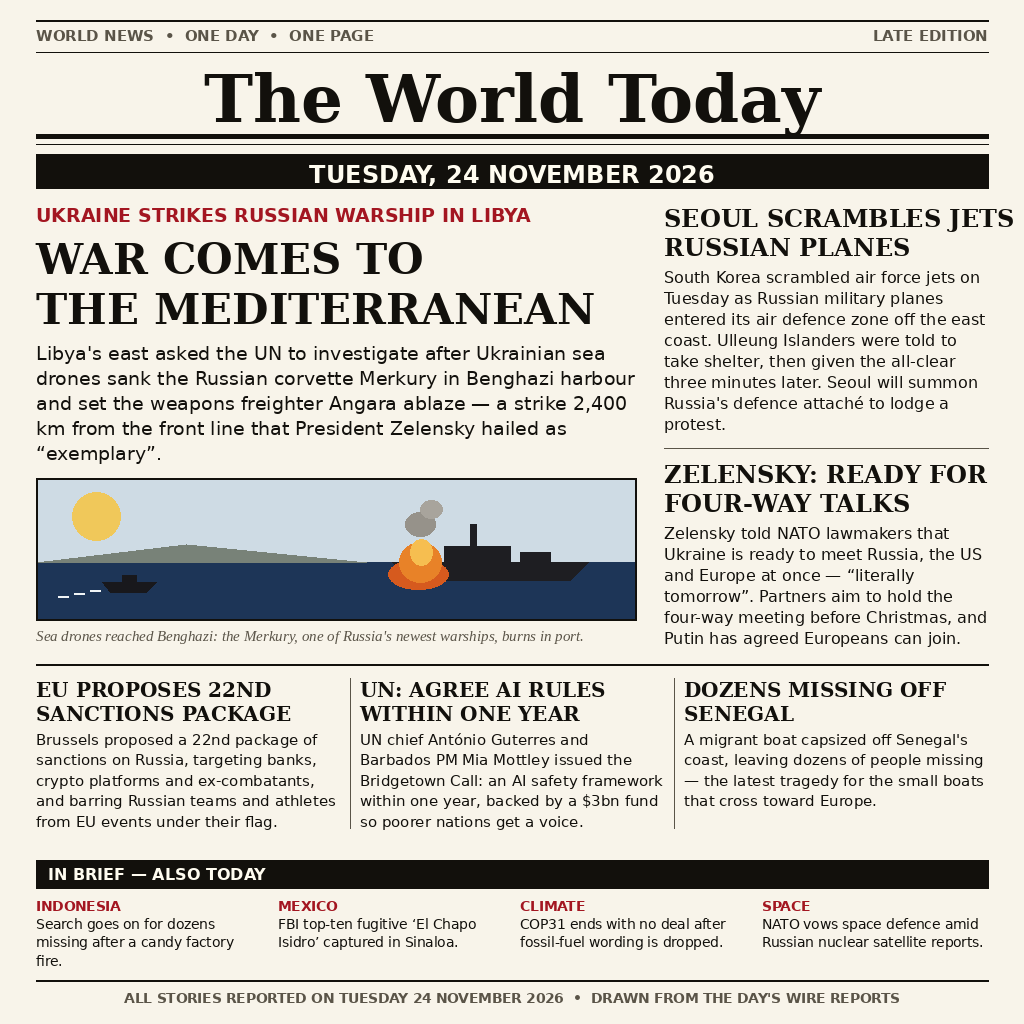
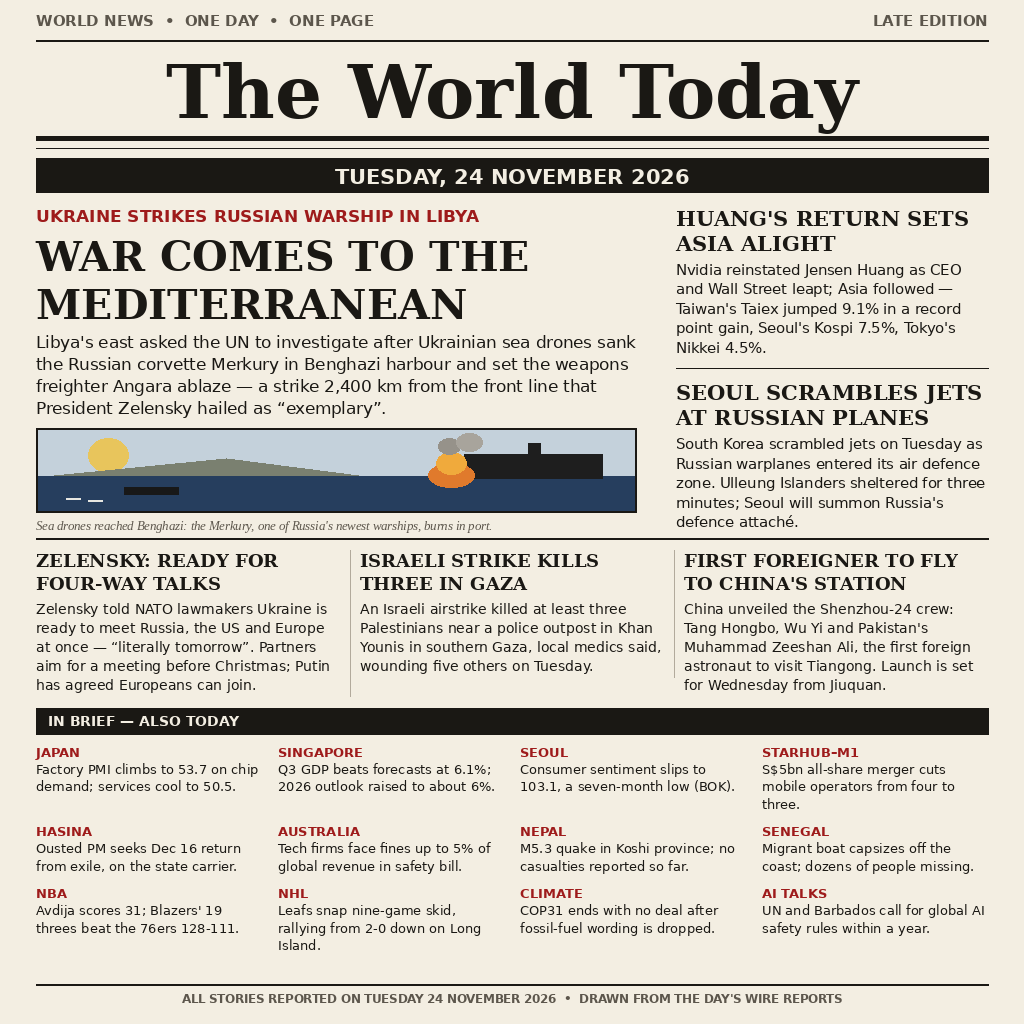
Rebuild as 18-story broadsheet: add Asia markets rally, Gaza strike, Shenzhou-24 crew, sports and Asia-Pacific briefs from wire-verified pool

diff --git a/build_poster.py b/build_poster.py
@@ -1,188 +1,185 @@
 #!/usr/bin/env python3
-"""Build the front-page poster for make.fun bounty news-image-20261124.
-Sums up the world news of Tuesday 24 November 2026 in one 1024x1024 image.
-Deterministic: pure PIL drawing, no randomness, no network.
-"""
+"""Builds entry.png — 'The World Today', a one-page broadsheet summing up
+Tuesday 24 November 2026. Pure PIL, fully deterministic, no network."""
 from PIL import Image, ImageDraw, ImageFont
 
 W = H = 1024
-PAPER = (248, 244, 234)
-INK = (18, 16, 12)
-RED = (163, 22, 33)
-NAVY = (29, 53, 87)
-GREY = (90, 84, 72)
-
+BG = (243, 238, 226)
+INK = (26, 24, 20)
+RED = (158, 27, 27)
+GREY = (92, 86, 76)
+SERIF = "/usr/share/fonts/truetype/dejavu/DejaVuSerif.ttf"
 SERIF_B = "/usr/share/fonts/truetype/dejavu/DejaVuSerif-Bold.ttf"
+SERIF_I = "/usr/share/fonts/truetype/liberation/LiberationSerif-Italic.ttf"
 SANS = "/usr/share/fonts/truetype/dejavu/DejaVuSans.ttf"
 SANS_B = "/usr/share/fonts/truetype/dejavu/DejaVuSans-Bold.ttf"
-SERIF_I = "/usr/share/fonts/truetype/liberation/LiberationSerif-Italic.ttf"
 
 
 def F(path, size):
     return ImageFont.truetype(path, size)
 
 
-def wrap(draw, text, font, maxw):
+def wrap(d, text, font, width):
     words, lines, cur = text.split(), [], ""
     for w in words:
         t = (cur + " " + w).strip()
-        if draw.textlength(t, font=font) <= maxw:
+        if d.textlength(t, font=font) <= width:
             cur = t
         else:
-            if cur:
-                lines.append(cur)
+            lines.append(cur)
             cur = w
     if cur:
         lines.append(cur)
     return lines
 
 
-def block(draw, x, y, text, font, maxw, leading, fill=INK):
-    for ln in wrap(draw, text, font, maxw):
-        draw.text((x, y), ln, font=font, fill=fill)
+def block(d, x, y, text, font, width, leading):
+    for ln in wrap(d, text, font, width):
+        d.text((x, y), ln, font=font, fill=INK)
         y += leading
     return y
 
 
-img = Image.new("RGB", (W, H), PAPER)
+img = Image.new("RGB", (W, H), BG)
 d = ImageDraw.Draw(img)
 MX = 36            # side margin
-RIGHT = W - MX     # 988
-
-# ---------- top strip ----------
-d.line([(MX, 20), (RIGHT, 20)], fill=INK, width=2)
-d.text((MX, 27), "WORLD NEWS  •  ONE DAY  •  ONE PAGE", font=F(SANS_B, 15), fill=GREY)
-t = "LATE EDITION"
-d.text((RIGHT - d.textlength(t, font=F(SANS_B, 15)), 27), t, font=F(SANS_B, 15), fill=GREY)
-d.line([(MX, 52), (RIGHT, 52)], fill=INK, width=1)
+CW = W - 2 * MX    # 952
 
 # ---------- masthead ----------
-mast = F(SERIF_B, 66)
+d.text((MX, 12), "WORLD NEWS  \u2022  ONE DAY  \u2022  ONE PAGE", font=F(SANS_B, 15), fill=GREY)
+r = "LATE EDITION"
+d.text((W - MX - d.textlength(r, font=F(SANS_B, 15)), 12), r, font=F(SANS_B, 15), fill=GREY)
+d.line([(MX, 40), (W - MX, 40)], fill=INK, width=2)
 t = "The World Today"
-d.text(((W - d.textlength(t, font=mast)) / 2, 60), t, font=mast, fill=INK)
-d.line([(MX, 136), (RIGHT, 136)], fill=INK, width=5)
-d.line([(MX, 144), (RIGHT, 144)], fill=INK, width=1)
-
-# ---------- date band ----------
-d.rectangle([MX, 154, RIGHT, 188], fill=INK)
+d.text(((W - d.textlength(t, font=F(SERIF_B, 74))) / 2, 48), t, font=F(SERIF_B, 74), fill=INK)
+d.line([(MX, 138), (W - MX, 138)], fill=INK, width=5)
+d.line([(MX, 148), (W - MX, 148)], fill=INK, width=1)
+d.rectangle([MX, 158, W - MX, 192], fill=INK)
 t = "TUESDAY, 24 NOVEMBER 2026"
-df = F(SANS_B, 24)
-d.text(((W - d.textlength(t, font=df)) / 2, 160), t, font=df, fill=(255, 252, 240))
+d.text(((W - d.textlength(t, font=F(SANS_B, 21))) / 2, 164), t, font=F(SANS_B, 21), fill=BG)
 
-# ---------- LEAD (left) ----------
-LX, LW = MX, 600
-y = 204
-d.text((LX, y), "UKRAINE STRIKES RUSSIAN WARSHIP IN LIBYA", font=F(SANS_B, 19), fill=RED)
-y += 30
-for ln in ["WAR COMES TO", "THE MEDITERRANEAN"]:
-    d.text((LX, y), ln, font=F(SERIF_B, 42), fill=INK)
-    y += 50
-y += 8
-y = block(d, LX, y,
-          "Libya's east asked the UN to investigate after Ukrainian sea drones sank "
-          "the Russian corvette Merkury in Benghazi harbour and set the weapons "
-          "freighter Angara ablaze — a strike 2,400 km from the front line that "
-          "President Zelensky hailed as \u201cexemplary\u201d.",
-          F(SANS, 19), LW, 25)
+# ---------- lead + rail zone ----------
+LY = 206
+LW = 600           # lead width
+RX = 676           # rail x
+RW = W - MX - RX   # 312
+
+d.text((MX, LY), "UKRAINE STRIKES RUSSIAN WARSHIP IN LIBYA", font=F(SANS_B, 17), fill=RED)
+y = LY + 26
+y = block(d, MX, y, "WAR COMES TO THE MEDITERRANEAN", F(SERIF_B, 41), LW, 48)
+y += 4
+y = block(d, MX, y,
+          "Libya's east asked the UN to investigate after Ukrainian sea drones sank the "
+          "Russian corvette Merkury in Benghazi harbour and set the weapons freighter "
+          "Angara ablaze — a strike 2,400 km from the front line that President Zelensky "
+          "hailed as \u201cexemplary\u201d.",
+          F(SANS, 16.5), LW, 22)
 print("lead deck ends", y)
-
-# ---------- illustration ----------
-IX, IY, IW, IH = LX, 478, LW, 142
-d.rectangle([IX, IY, IX + IW, IY + IH], fill=(206, 219, 228))            # sky
-d.rectangle([IX, IY + 84, IX + IW, IY + IH], fill=NAVY)                  # sea
-d.ellipse([IX + 36, IY + 14, IX + 84, IY + 62], fill=(240, 200, 90))     # sun
-d.polygon([(IX, IY + 84), (IX + 150, IY + 66), (IX + 330, IY + 84)], fill=(120, 130, 120))  # coast
-sx, sy = IX + 356, IY + 62                                               # warship
-d.polygon([(sx, sy + 22), (sx + 196, sy + 22), (sx + 178, sy + 40), (sx + 18, sy + 40)], fill=(30, 30, 34))
-d.rectangle([sx + 52, sy + 6, sx + 118, sy + 22], fill=(30, 30, 34))
-d.rectangle([sx + 78, sy - 16, sx + 84, sy + 6], fill=(30, 30, 34))
-d.rectangle([sx + 128, sy + 12, sx + 158, sy + 22], fill=(30, 30, 34))
-ex, ey = sx + 26, sy + 34                                                # fire at the bow waterline
-for rx, ry, ox, oy, c in [(30, 15, 0, 0, (214, 90, 30)), (21, 20, 2, -12, (232, 130, 40)),
-                          (11, 13, 3, -22, (246, 190, 80))]:
-    d.ellipse([ex - rx + ox, ey - ry + oy, ex + rx + ox, ey + ry + oy], fill=c)
-d.ellipse([ex - 13, ey - 62, ex + 17, ey - 38], fill=(150, 146, 138))    # smoke above the flames
-d.ellipse([ex + 2, ey - 74, ex + 24, ey - 56], fill=(168, 164, 156))
-dx, dy = IX + 66, IY + 104                                               # sea drone
-d.polygon([(dx, dy), (dx + 54, dy), (dx + 44, dy + 10), (dx + 8, dy + 10)], fill=(24, 24, 28))
-d.rectangle([dx + 20, dy - 7, dx + 34, dy], fill=(24, 24, 28))
-for i in range(3):
-    d.line([(dx - 12 - i * 16, dy + 8 + i * 3), (dx - 2 - i * 16, dy + 8 + i * 3)], fill=(240, 244, 246), width=2)
-d.rectangle([IX, IY, IX + IW, IY + IH], outline=INK, width=2)
+IY = y + 8
+IH = 84
+d.rectangle([MX, IY, MX + LW, IY + IH], outline=INK, width=2)
+d.rectangle([MX + 2, IY + 2, MX + LW - 2, IY + 48], fill=(196, 209, 219))
+d.ellipse([MX + 52, IY + 10, MX + 92, IY + 44], fill=(232, 197, 92))
+d.polygon([(MX + 8, IY + 48), (MX + 190, IY + 30), (MX + 330, IY + 48)], fill=(122, 128, 112))
+d.rectangle([MX + 2, IY + 48, MX + LW - 2, IY + IH - 2], fill=(38, 62, 94))
+d.rectangle([MX + 428, IY + 26, MX + 566, IY + 50], fill=(30, 30, 30))
+d.rectangle([MX + 492, IY + 15, MX + 504, IY + 26], fill=(30, 30, 30))
+d.ellipse([MX + 392, IY + 35, MX + 438, IY + 59], fill=(224, 122, 44))
+d.ellipse([MX + 400, IY + 24, MX + 430, IY + 46], fill=(240, 170, 60))
+d.ellipse([MX + 402, IY + 10, MX + 424, IY + 26], fill=(150, 146, 138))
+d.ellipse([MX + 420, IY + 5, MX + 446, IY + 23], fill=(168, 164, 156))
+d.rectangle([MX + 88, IY + 59, MX + 142, IY + 66], fill=(24, 24, 24))
+d.line([(MX + 30, IY + 70), (MX + 44, IY + 70)], fill=(230, 230, 225), width=2)
+d.line([(MX + 52, IY + 72), (MX + 66, IY + 72)], fill=(230, 230, 225), width=2)
 cap = "Sea drones reached Benghazi: the Merkury, one of Russia's newest warships, burns in port."
-d.text((IX, IY + IH + 7), cap, font=F(SERIF_I, 15), fill=GREY)
+d.text((MX, IY + IH + 6), cap, font=F(SERIF_I, 12.5), fill=GREY)
+lead_end = IY + IH + 24
 
-# ---------- right rail ----------
-RX, RW = 664, RIGHT - 664
-y = 204
-d.text((RX, y), "SEOUL SCRAMBLES JETS OVER", font=F(SERIF_B, 24), fill=INK); y += 29
-d.text((RX, y), "RUSSIAN PLANES", font=F(SERIF_B, 24), fill=INK); y += 35
-y = block(d, RX, y,
-          "South Korea scrambled air force jets on Tuesday as Russian military planes "
-          "entered its air defence zone off the east coast. Ulleung Islanders were told "
-          "to take shelter, then given the all-clear three minutes later. Seoul will "
-          "summon Russia's defence attach\u00e9 to lodge a protest.",
-          F(SANS, 16), RW, 21)
-y += 12
-d.line([(RX, y), (RIGHT, y)], fill=GREY, width=1); y += 12
-d.text((RX, y), "ZELENSKY: READY FOR", font=F(SERIF_B, 24), fill=INK); y += 29
-d.text((RX, y), "FOUR-WAY TALKS", font=F(SERIF_B, 24), fill=INK); y += 35
-y = block(d, RX, y,
-          "Zelensky told NATO lawmakers that Ukraine is ready to meet Russia, the US "
-          "and Europe at once — \u201cliterally tomorrow\u201d. Partners aim to hold the four-way "
-          "meeting before Christmas, and Putin has agreed Europeans can join.",
-          F(SANS, 16), RW, 21)
-print("rail ends", y)
+# rail story 1 — markets
+ry = LY
+ry = block(d, RX, ry, "HUANG'S RETURN SETS ASIA ALIGHT", F(SERIF_B, 21), RW, 25)
+ry += 5
+ry = block(d, RX, ry,
+           "Nvidia reinstated Jensen Huang as CEO and Wall Street leapt; Asia followed — "
+           "Taiwan's Taiex jumped 9.1% in a record point gain, Seoul's Kospi 7.5%, "
+           "Tokyo's Nikkei 4.5%.",
+           F(SANS, 14.5), RW, 19.5)
+ry += 10
+d.line([(RX, ry), (W - MX, ry)], fill=INK, width=1)
+ry += 12
+ry = block(d, RX, ry, "SEOUL SCRAMBLES JETS AT RUSSIAN PLANES", F(SERIF_B, 21), RW, 25)
+ry += 5
+ry = block(d, RX, ry,
+           "South Korea scrambled jets on Tuesday as Russian warplanes entered its air "
+           "defence zone. Ulleung Islanders sheltered for three minutes; Seoul will "
+           "summon Russia's defence attach\u00e9.",
+           F(SANS, 14.5), RW, 19.5)
+print("rail ends", ry, "lead ends", lead_end)
+ZONE_END = max(ry, lead_end)
 
 # ---------- middle band: three columns ----------
-MY = 678
-d.line([(MX, MY - 14), (RIGHT, MY - 14)], fill=INK, width=2)
+MY = ZONE_END + 14
+d.line([(MX, MY - 12), (W - MX, MY - 12)], fill=INK, width=2)
+COLW, GAP = 304, 20
 cols = [
-    ("EU PROPOSES 22ND SANCTIONS PACKAGE",
-     "Brussels proposed a 22nd package of sanctions on Russia, targeting banks, "
-     "crypto platforms and ex-combatants, and barring Russian teams and athletes "
-     "from EU events under their flag."),
-    ("UN: AGREE AI RULES WITHIN ONE YEAR",
-     "UN chief Ant\u00f3nio Guterres and Barbados PM Mia Mottley issued the Bridgetown "
-     "Call: an AI safety framework within one year, backed by a $3bn fund so "
-     "poorer nations get a voice."),
-    ("DOZENS MISSING OFF SENEGAL",
-     "A migrant boat capsized off Senegal's coast, leaving dozens of people "
-     "missing — the latest tragedy for the small boats that cross toward "
-     "Europe."),
+    ("ZELENSKY: READY FOR FOUR-WAY TALKS",
+     "Zelensky told NATO lawmakers Ukraine is ready to meet Russia, the US and "
+     "Europe at once — \u201cliterally tomorrow\u201d. Partners aim for a meeting before "
+     "Christmas; Putin has agreed Europeans can join."),
+    ("ISRAELI STRIKE KILLS THREE IN GAZA",
+     "An Israeli airstrike killed at least three Palestinians near a police "
+     "outpost in Khan Younis in southern Gaza, local medics said, wounding five "
+     "others on Tuesday."),
+    ("FIRST FOREIGNER TO FLY TO CHINA'S STATION",
+     "China unveiled the Shenzhou-24 crew: Tang Hongbo, Wu Yi and Pakistan's "
+     "Muhammad Zeeshan Ali, the first foreign astronaut to visit Tiangong. "
+     "Launch is set for Wednesday from Jiuquan."),
 ]
-CW, GAP = 304, 20
+col_end = 0
 for i, (h, b) in enumerate(cols):
-    cx = MX + i * (CW + GAP)
-    yy = block(d, cx, MY, h, F(SERIF_B, 20), CW, 24)
-    yy += 5
-    yy = block(d, cx, yy, b, F(SANS, 15), CW, 20.5)
-    print("col", i, "ends", yy)
-    if i:
-        d.line([(cx - GAP // 2, MY), (cx - GAP // 2, MY + 150)], fill=GREY, width=1)
+    cx = MX + i * (COLW + GAP)
+    cy = block(d, cx, MY, h, F(SERIF_B, 18), COLW, 23)
+    cy += 5
+    cy = block(d, cx, cy, b, F(SANS, 14), COLW, 19)
+    col_end = max(col_end, cy)
+    if i < 2:
+        d.line([(cx + COLW + GAP / 2, MY), (cx + COLW + GAP / 2, cy)], fill=(178, 170, 156), width=1)
+print("cols end", col_end)
 
-# ---------- briefs ----------
-BY = 860
-d.rectangle([MX, BY, RIGHT, BY + 28], fill=INK)
-d.text((MX + 12, BY + 5), "IN BRIEF — ALSO TODAY", font=F(SANS_B, 16), fill=(255, 252, 240))
+# ---------- briefs: three rows of four ----------
+BY = col_end + 12
+d.rectangle([MX, BY, W - MX, BY + 26], fill=INK)
+d.text((MX + 12, BY + 5), "IN BRIEF — ALSO TODAY", font=F(SANS_B, 14), fill=BG)
 briefs = [
-    ("INDONESIA", "Search goes on for dozens missing after a candy factory fire."),
-    ("MEXICO", "FBI top-ten fugitive \u2018El Chapo Isidro\u2019 captured in Sinaloa."),
+    ("JAPAN", "Factory PMI climbs to 53.7 on chip demand; services cool to 50.5."),
+    ("SINGAPORE", "Q3 GDP beats forecasts at 6.1%; 2026 outlook raised to about 6%."),
+    ("SEOUL", "Consumer sentiment slips to 103.1, a seven-month low (BOK)."),
+    ("STARHUB\u2013M1", "S$5bn all-share merger cuts mobile operators from four to three."),
+    ("HASINA", "Ousted PM seeks Dec 16 return from exile, on the state carrier."),
+    ("AUSTRALIA", "Tech firms face fines up to 5% of global revenue in safety bill."),
+    ("NEPAL", "M5.3 quake in Koshi province; no casualties reported so far."),
+    ("SENEGAL", "Migrant boat capsizes off the coast; dozens of people missing."),
+    ("NBA", "Avdija scores 31; Blazers' 19 threes beat the 76ers 128-111."),
+    ("NHL", "Leafs snap nine-game skid, rallying from 2-0 down on Long Island."),
     ("CLIMATE", "COP31 ends with no deal after fossil-fuel wording is dropped."),
-    ("SPACE", "NATO vows space defence amid Russian nuclear satellite reports."),
+    ("AI TALKS", "UN and Barbados call for global AI safety rules within a year."),
 ]
 BW2, GAP2 = 226, 16
-for i, (h, b) in enumerate(briefs):
-    bx = MX + i * (BW2 + GAP2)
-    by = BY + 38
-    d.text((bx, by), h, font=F(SANS_B, 13.5), fill=RED)
-    block(d, bx, by + 18, b, F(SANS, 13.5), BW2, 18.5)
+by = BY + 36
+for r in range(3):
+    row_end = by
+    for i in range(4):
+        h, b = briefs[r * 4 + i]
+        bx = MX + i * (BW2 + GAP2)
+        d.text((bx, by), h, font=F(SANS_B, 13), fill=RED)
+        row_end = max(row_end, block(d, bx, by + 17, b, F(SANS, 13), BW2, 17.5))
+    by = row_end + 10
+print("briefs end", by)
 
 # ---------- footer ----------
-d.line([(MX, 980), (RIGHT, 980)], fill=INK, width=2)
-t = "ALL STORIES REPORTED ON TUESDAY 24 NOVEMBER 2026  •  DRAWN FROM THE DAY'S WIRE REPORTS"
-ff = F(SANS_B, 13.5)
-d.text(((W - d.textlength(t, font=ff)) / 2, 990), t, font=ff, fill=GREY)
+d.line([(MX, 984), (W - MX, 984)], fill=INK, width=2)
+t = "ALL STORIES REPORTED ON TUESDAY 24 NOVEMBER 2026  \u2022  DRAWN FROM THE DAY'S WIRE REPORTS"
+d.text(((W - d.textlength(t, font=F(SANS_B, 11.5))) / 2, 992), t, font=F(SANS_B, 11.5), fill=GREY)
 
-img.save("/home/hatch/workspace/makefun/news-image-20261124/entry-repo/entry.png")
+img.save("entry.png", optimize=True)
 print("saved")
